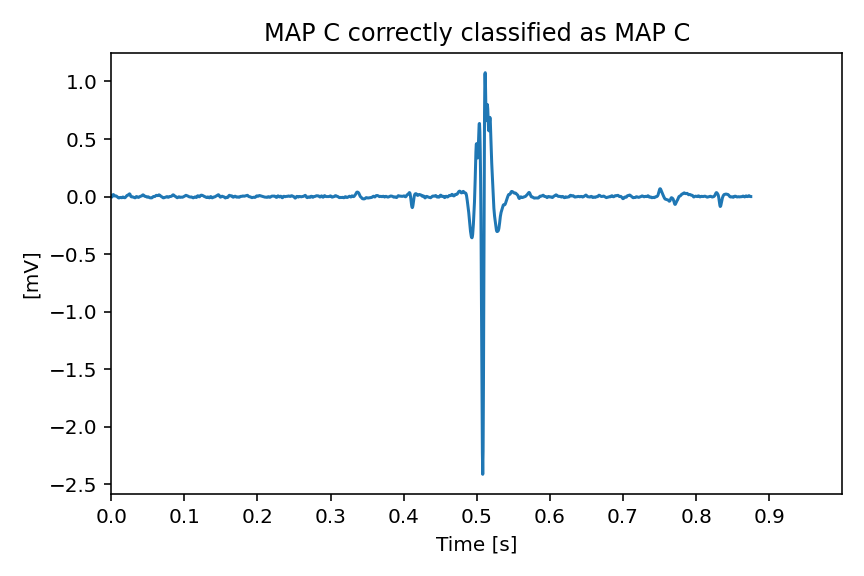
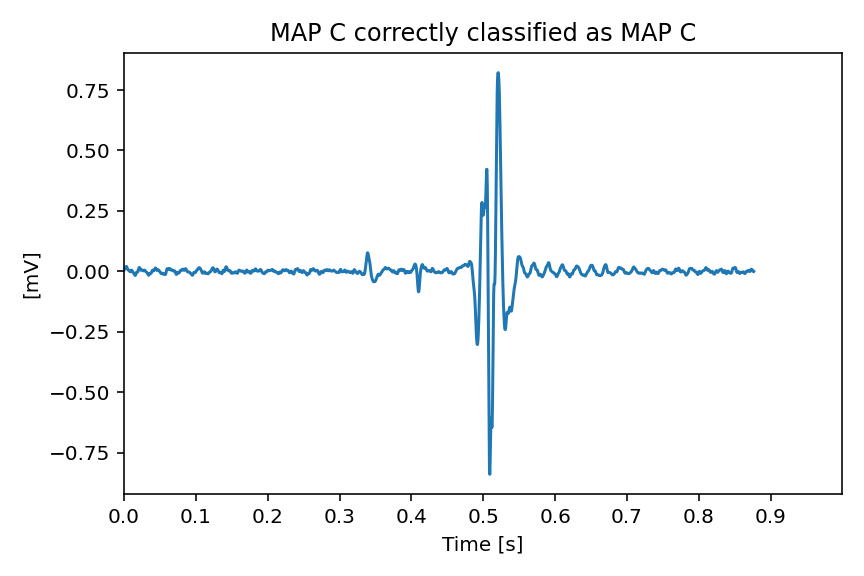
done with code changes

diff --git a/main_classification.py b/main_classification.py
@@ -29,7 +29,7 @@ figure_path="D:/Desktop/ANDREA/Universita/Magistrale/Anno Accademico 2023-2024/T
 
 
 #%% Loading data
-use_filt_data=False;
+use_filt_data=True;
 # Handling two parralel paths: filtered and not filtered dataset
 data,y_true,labels_unique,Fs,plot_last_name,fig_final_folder,subtitle_plots= handle_filtered_data(use_filt_data)
 
@@ -65,6 +65,7 @@ show_class_proportions(y_test,labels_unique)
 #%% STRATEGY A
 # %% Tuning prominence multiply factor 
 tune_prominence_mult_factor(x_train,y_train,np.array(np.arange(1,15,1)))
+
 save_plot(plt.gcf(),figure_path+"/Heuristic_classification_phase/other_figs","mult_factor_tuning")
 
 
@@ -110,28 +111,28 @@ evaluate_confusion_matrix(pred_heuristic,y_test,labels_unique,cm_suptitle=cm_sup
 
 
 # %% Showing correct results
-show_single_example(x_train, Fs,103, 'MAP A correctly classified as MAP A') 
+show_single_example(x_test, Fs,8, 'MAP A correctly classified as MAP A') 
 fig=plt.gcf()
 save_plot(fig,figure_path+"/Heuristic_classification_phase/other_figs","ex_correct_class_1")
 
-show_single_example(x_train, Fs,73, 'MAP B correctly classified as MAP B') 
+show_single_example(x_test, Fs,144, 'MAP B correctly classified as MAP B') 
 fig=plt.gcf()
 save_plot(fig,figure_path+"/Heuristic_classification_phase/other_figs","ex_correct_class_2")
 
-show_single_example(x_train, Fs, 255, 'MAP C correctly classified as MAP C') 
+show_single_example(x_test, Fs, 26, 'MAP C correctly classified as MAP C') 
 fig=plt.gcf()
 save_plot(fig,figure_path+"/Heuristic_classification_phase/other_figs","ex_correct_class_3")
 
 # %% Showing some unclear results
-show_single_example(x_train, Fs,2, 'MAP A classified as MAP B') 
+show_single_example(x_test, Fs,0, 'MAP A classified as MAP B') 
 fig=plt.gcf()
 save_plot(fig,figure_path+"/Heuristic_classification_phase/other_figs","ex_misclass_1")
 
-show_single_example(x_train, Fs,163, 'MAP C classified as MAP B') 
+show_single_example(x_test, Fs,200, 'MAP C classified as MAP B') 
 fig=plt.gcf()
 save_plot(fig,figure_path+"/Heuristic_classification_phase/other_figs","ex_misclass_2")
 
-show_single_example(x_train, Fs, 199, 'MAP C classified as MAP A') 
+show_single_example(x_test, Fs, 94, 'MAP C classified as MAP A') 
 fig=plt.gcf()
 save_plot(fig,figure_path+"/Heuristic_classification_phase/other_figs","ex_misclass_3")
 
@@ -142,9 +143,11 @@ save_plot(fig,figure_path+"/Heuristic_classification_phase/other_figs","ex_miscl
 # %% Tuning of His Threshold value for strategy B
 # F1 score is used to tune the best percentile to be used as threshold
 tune_his_th_on_f1(x_train,y_train,np.arange(0,100,5),t_atr=0.38,t_ven=0.42)
+save_plot(plt.gcf(),figure_path+"/Heuristic_classification_phase/other_figs","his_th_tuning")
 
 # then the threshold is fixed
-th_his=tune_his_th(x_train,t_atr=0.38,t_ven=0.42,Q_perc=55,boxplot=True)
+th_his=tune_his_th(x_train,t_atr=0.38,t_ven=0.42,Q_perc=45,boxplot=True)
+save_plot(plt.gcf(),figure_path+"/Heuristic_classification_phase/other_figs","his_th_tuning_boxplot")
 # %%  Heuristic classifier: train
 dims=x_train.shape
 pred_heuristic=np.empty(dims[0], dtype=object)
@@ -186,29 +189,29 @@ evaluate_confusion_matrix(pred_heuristic,y_test,labels_unique,cm_suptitle=cm_sup
 
 
 
-# %% Showing correct results
-# show_single_example(x_train, Fs,103, 'MAP A correctly classified as MAP A') 
-# fig=plt.gcf()
-# save_plot(fig,figure_path+"/Heuristic_classification_phase/other_figs","ex_correct_class_1")
+#%% Showing correct results
+show_single_example(x_test, Fs,2, 'MAP A correctly classified as MAP A, strategy B') 
+fig=plt.gcf()
+save_plot(fig,figure_path+"/Heuristic_classification_phase/other_figs","ex_correct_class_1_B")
 
-# show_single_example(x_train, Fs,73, 'MAP B correctly classified as MAP B') 
-# fig=plt.gcf()
-# save_plot(fig,figure_path+"/Heuristic_classification_phase/other_figs","ex_correct_class_2")
+show_single_example(x_test, Fs,38, 'MAP B correctly classified as MAP B, strategy B') 
+fig=plt.gcf()
+save_plot(fig,figure_path+"/Heuristic_classification_phase/other_figs","ex_correct_class_2_B")
 
-# show_single_example(x_train, Fs, 255, 'MAP C correctly classified as MAP C') 
-# fig=plt.gcf()
-# save_plot(fig,figure_path+"/Heuristic_classification_phase/other_figs","ex_correct_class_3")
+show_single_example(x_test, Fs, 40, 'MAP C correctly classified as MAP C, strategy B') 
+fig=plt.gcf()
+save_plot(fig,figure_path+"/Heuristic_classification_phase/other_figs","ex_correct_class_3_B")
 
-# # %% Showing some unclear results
-# show_single_example(x_train, Fs,2, 'MAP A classified as MAP B') 
-# fig=plt.gcf()
-# save_plot(fig,figure_path+"/Heuristic_classification_phase/other_figs","ex_misclass_1")
+# %% Showing some unclear results
+show_single_example(x_test, Fs,1, 'MAP A classified as MAP B, strategy B') 
+fig=plt.gcf()
+save_plot(fig,figure_path+"/Heuristic_classification_phase/other_figs","ex_misclass_1_B")
 
-# show_single_example(x_train, Fs,163, 'MAP C classified as MAP B') 
-# fig=plt.gcf()
-# save_plot(fig,figure_path+"/Heuristic_classification_phase/other_figs","ex_misclass_2")
+show_single_example(x_test, Fs,24, 'MAP C classified as MAP B, strategy B') 
+fig=plt.gcf()
+save_plot(fig,figure_path+"/Heuristic_classification_phase/other_figs","ex_misclass_2_B")
 
-# show_single_example(x_train, Fs, 199, 'MAP C classified as MAP A') 
-# fig=plt.gcf()
-# save_plot(fig,figure_path+"/Heuristic_classification_phase/other_figs","ex_misclass_3")
+show_single_example(x_test, Fs, 290, 'MAP C classified as MAP A,, strategy B') 
+fig=plt.gcf()
+save_plot(fig,figure_path+"/Heuristic_classification_phase/other_figs","ex_misclass_3_B")
 
